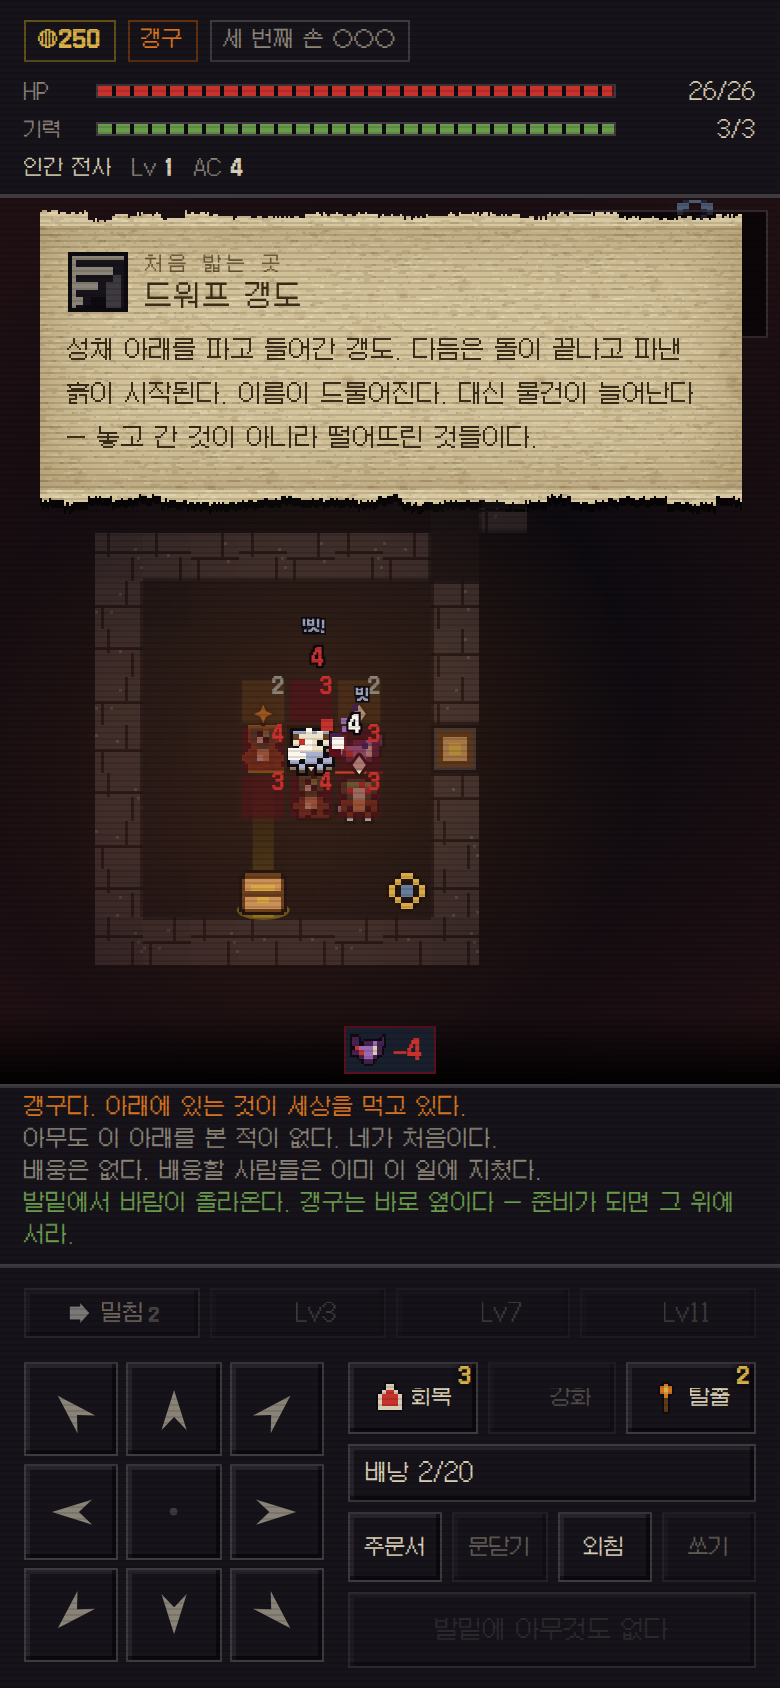
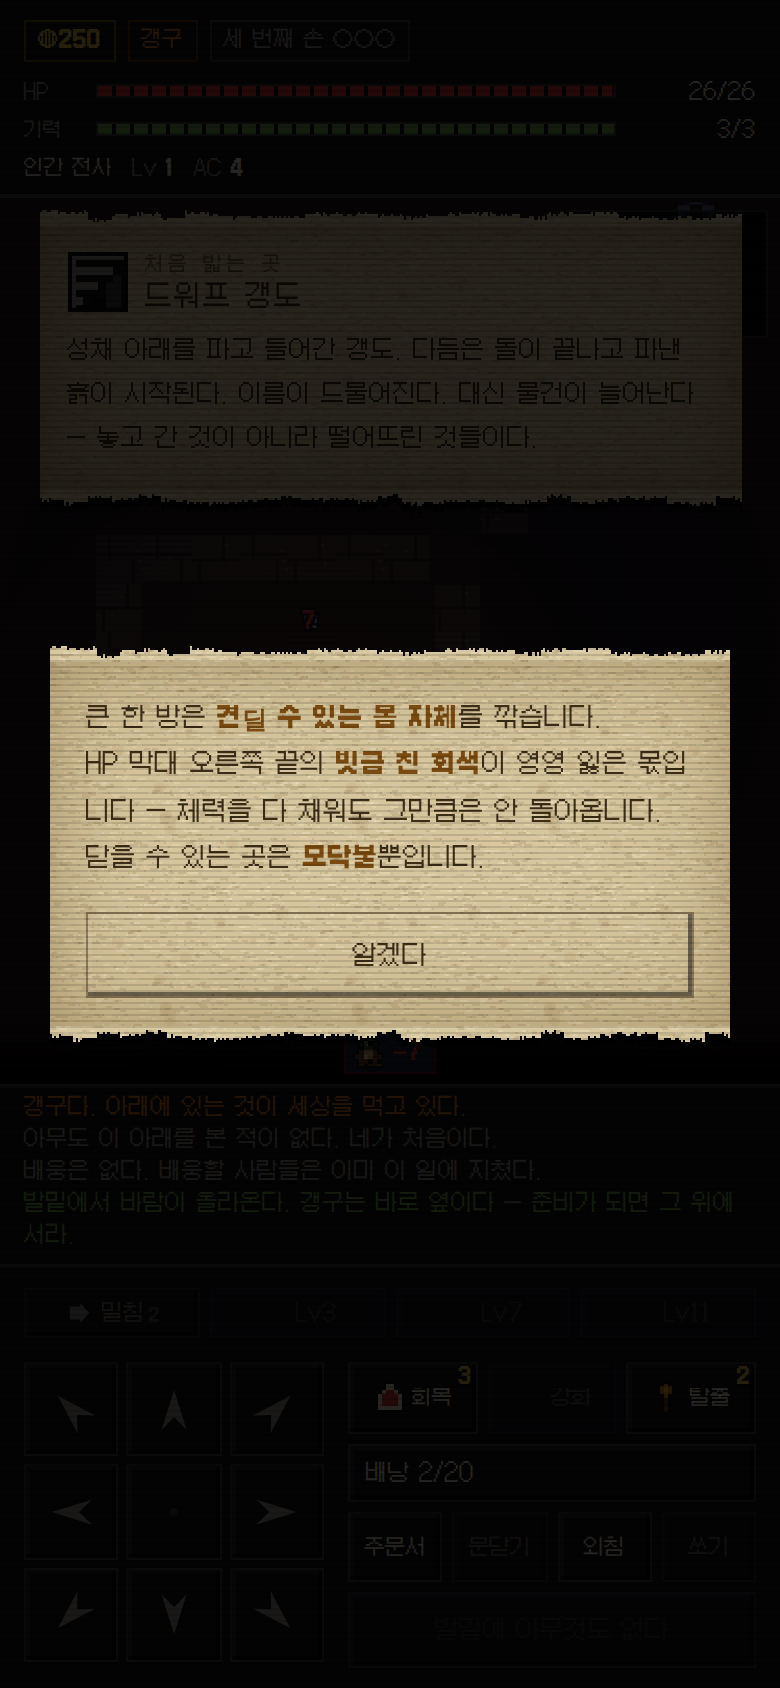
층에 과업을 달았다 — 「15층이 아니라 한 층을 15번」
GM의 진단이고, 측정이 뒷받침한다: 테마 여섯 개는 층의 **모양**만 바꾸고
**할 일**은 안 바꾼다. 판당 턴의 71%가 걷기이고 그 걷는 턴의 96%는
아무것도 안 보이는 상태다 — 「계단을 찾는다」 말고 목표가 없다는 것의
직접 측정치다.

봇이 무작정 훑는 것이 아니라는 것도 확인했다. 목적지 목록을 따라
걷는다(몬스터 → 유물 → 상점 → 모닥불 → 모루 → 사건 → 계단). 그러니
걷기 71%는 봇 버릇이 아니라 **정말로 내용 사이가 먼 것**이다.

과업 둘을 넣었다. 새 아트도 새 조작도 없이 있는 타일·소품·몬스터를
다시 배치할 뿐이다.

  · **열쇠를 문 것** (4층부터) — 계단이 잠기고, 이 층에서 **가장 센
    것**이 열쇠를 물고 있다. 「어딘가에 있다」가 아니라 「저것을 잡아야
    한다」가 되고, 그 판단이 곧 과업의 내용이다.
  · **무너지는 층** (3층부터) — 계단을 처음부터 지도에 찍어 주고 시계를
    반으로 줄인다. 잠그는 것이 아니라 **재촉하는** 과업이다. 「어디로
    갈지」가 사라지므로 남는 결정은 「무엇을 버리고 갈지」다.

층마다는 아니다(45%). 매 층이 과업이면 그건 과업이 아니라 절차다.

    걷기  76.8% → 71%      때리기  9% → 12%

솔직히: 판당 턴은 1191 → 1498로 **늘었다.** 열쇠 쪽이 찾는 일이라
당연하다. 비율은 나아졌지만 절대 걷기는 안 줄었다 — 그건 과업이 아니라
지도 크기와 물건 밀도의 문제이고, GM도 그렇게 말했다(층 예산을 층의
실제 크기에서 뽑아라). 다음 판의 일이다.

**안전판을 두 겹으로 뒀다.** 잠긴 계단은 판을 가둘 수 있고 방금 라이브락
12%를 걷어낸 참이다.
  · TASK_PATIENCE턴이 지나면 과업과 무관하게 열린다. 260으로 뒀다가
    160으로 내렸다 — 층 하나가 보통 175~300턴이니 260은 사실상 「그 층
    내내 잠겨 있다」였다. 여유가 없는 안전판은 안전판이 아니다.
  · 잠긴 계단을 누르면 **턴을 태운다.** 안 태우면 인내심 시계가 영영
    안 돌고, 계단에 서서 버튼만 누르는 판이 갇힌다 — 실제로 40판에 한
    판이 그렇게 막혔고 정직 벤치가 잡았다.
  · 열쇠를 물릴 것이 없으면 과업을 무른다. 열쇠 없는 잠긴 계단은
    과업이 아니라 벽이다.

그리고 과업이 막힘을 늘리는지 직접 시험했다 — 과업 있음 1/120, 과업
없음 1/120. 무관하다.

같이: turns.mjs의 분모 버그를 고쳤다(2회차 지적). walkSeen은 걷기의
부분집합인데 합을 지우기 전에 내서 분모에 한 번 더 들어갔고, 인쇄되는
걷기 비율이 참값보다 4%p 낮았다(행 합이 94%인 것이 증거).

벤치 13종 확인 통과.

Claude-Session: https://claude.ai/code/session_011ig7tdGixykzhK7XR5jr6a

diff --git a/src/game.js b/src/game.js
@@ -14,6 +14,7 @@ import {
   ENCHANT_CURSE, ENCHANT_CURSE_STEP, ENCHANT_TWIN,
   BOONS, boonById, transChance,
   FUSIONS, fusionOf, FUSE_ODDS, FUSE_COST, FUSE_PULL,
+  TASKS, TASK_PATIENCE, TASK_ODDS,
   ALTAR_OFFERS, rarityOf, isCursed, RARITY, TEMPLE_SHARE, JACKPOT,
   POTION_LOOKS, SCROLL_LOOKS, UNKNOWABLE,
   RELICS, RELIC_SLOTS, relicSlots, relicById, BRANCHES,
@@ -2159,6 +2160,17 @@ export function enterDepth(depth, fromBelow = false, branch = null) {
   G.hazards = []; G.snares = []; G.sanctum = null;
   G.campUses = 1 + (hasRelic('ember') ? 1 : 0);
   G.tideUsed = false;
+  /* ── 이 층의 과업 ────────────────────────────────────────
+     계단을 찾는 것 말고 할 일을 하나 준다. 자세한 이유는 data.js의
+     TASKS 주석에. 여기서는 뽑기만 하고, 실제로 잠그는 것은 stairHere와
+     descend가 한 곳에서 본다 — 두 곳에서 보면 언젠가 갈린다. */
+  G.task = null; G.taskDone = false;
+  {
+    const pool = TASKS.filter(t => depth >= t.from);
+    if (pool.length && depth < MAX_DEPTH && Math.random() < TASK_ODDS) {
+      G.task = pickWeighted(pool);
+    }
+  }
 
   const L = G.level;
   const p = G.player;
@@ -2191,6 +2203,30 @@ export function enterDepth(depth, fromBelow = false, branch = null) {
   } else if (depth > 0 && G.campPromise > 0) G.campPromise--;
 
   if (depth > 0) populate(depth);
+  /* 열쇠를 물린다. populate 뒤라야 물릴 것이 있다.
+     가장 깊은 곳에 있는 것이 아니라 **가장 센 것**에게 준다 — 그러면
+     「어딘가에 있다」가 「저것을 잡아야 한다」가 되고, 그 판단이 곧
+     이 과업의 내용이다. 아무도 없으면 과업을 무른다: 열쇠 없는 잠긴
+     계단은 과업이 아니라 벽이다. */
+  /* 재촉하는 과업. 계단을 지도에 찍어 주고 시계를 반으로 줄인다 —
+     「어디로 갈지」가 사라지므로 남는 결정은 「무엇을 버리고 갈지」다.
+     잠그지 않으므로 stairsLocked는 이쪽을 안 본다. */
+  if (G.task?.rush) {
+    G.taskDone = true;
+    for (let i = 0; i < L.tiles.length; i++) if (L.tiles[i] === DOWN) L.seen[i] = 1;
+    G.branch = { ...G.branch, clock: (G.branch.clock ?? 1) * 0.5 };
+    say(G.task.intro, 'warn');
+  }
+  if (G.task?.id === 'key') {
+    const pool = G.monsters.filter(m => !m.disguise);
+    if (!pool.length) G.task = null;
+    else {
+      const holder = pool.reduce((a, m) => (m.xp || 0) > (a.xp || 0) ? m : a, pool[0]);
+      holder.hasKey = true;
+      holder.named = holder.named || false;
+      say(G.task.intro, 'warn');
+    }
+  }
   if (depth > 0 && L.event) L.eventId = rollEvent();
   if (mods?.mapped && depth > 0) L.seen.fill(1);
   /* 길잡이의 기억: the shape of the floor, from floor 11 down.
@@ -3020,6 +3056,19 @@ const OFFER_SCREEN = { [CAMP]:'camp', [ALTAR]:'altar', [EVENT]:'event', [ANVIL]:
    차지하고 늘 띄우고 있었는데, 재 보니 각각 0.1%의 턴에만 살아 있고
    둘이 동시에 사는 일은 없다 — 한 칸에 두 계단은 없으므로 당연하다.
    판정을 규칙 쪽에 두어야 화면이 타일 상수를 알 필요가 없다. */
+/* 계단이 잠겨 있는가. **한 곳에서만** 판정한다 — stairHere와 descend가
+   각자 보면 언젠가 갈리고, 그러면 버튼은 뜨는데 안 눌리는 화면이 된다.
+
+   그리고 인내심. 과업이 끝나지 않아도 TASK_PATIENCE턴이 지나면 열린다.
+   잠긴 계단은 판을 가둘 수 있고, 방금 라이브락 12%를 걷어낸 참이다 —
+   「이 층은 나를 붙잡아 두려 했지만 실패했다」가 「이 판은 여기서
+   끝났다」보다 언제나 낫다. */
+export function stairsLocked() {
+  if (!G.task || G.taskDone) return null;
+  if ((G.floorTurn || 0) >= TASK_PATIENCE) return null;
+  return G.task;
+}
+
 export function stairHere() {
   const p = G.player, L = G.level;
   if (!p || !L || !G.running) return null;
@@ -4228,6 +4277,11 @@ export function hurtMonster(m, dmg, source, opt = {}) {
       }
       say(`${rec.sent}번째가 다시 누웠다. 남긴 것을 전부 거뒀다.`, 'level');
     }
+    if (m.hasKey && G.task && !G.taskDone) {
+      G.taskDone = true;
+      say(G.task.done, 'level');
+      fx({ t:'drop', x:m.x, y:m.y, rar:3 });
+    }
     if (m.named) {
       const id = unownedRelic();
       if (id) {
@@ -4458,6 +4512,17 @@ function gainXp(n) {
 export function descend() {
   const L = G.level, p = G.player;
   if (L.tiles[idx(p.x, p.y)] !== DOWN) { say('여기엔 내려가는 계단이 없다.'); return; }
+  const shut = stairsLocked();
+  if (shut) {
+    /* 문을 흔드는 것도 행동이다 — 턴을 태운다. 안 태우면 인내심
+       시계가 영영 안 돌고, 계단에 서서 버튼만 누르는 판이 갇힌다.
+       실제로 40판에 한 판이 그렇게 막혔다(정직 벤치가 잡았다).
+       잠긴 계단은 「기다리면 열린다」여야지 「여기서 끝」이면 안 된다. */
+    const left = Math.max(0, TASK_PATIENCE - (G.floorTurn || 0));
+    say(`${shut.hint} (${left}턴쯤 버티면 문이 삭는다)`, 'warn');
+    endTurn();
+    return;
+  }
   if (G.depth >= MAX_DEPTH) { say('이 아래로는 아무것도 없다.'); return; }
   if (G.depth + 1 >= MAX_DEPTH || G.depth === 0) { takeStairs(BRANCHES[0]); return; }
 

diff --git a/src/data.js b/src/data.js
@@ -2417,6 +2417,45 @@ export const FUSE_COST = { dust: 3, gold: 180 };
    `mon`/`item`/`elite` scale what populate() rolls; `flags` are
    read by the rules where they matter. Every branch that gives
    must also take, or it is not a choice. */
+/* ── 층에 과업 ────────────────────────────────────────────
+   GM의 진단: 「15층이 아니라 한 층을 15번이다.」 테마 여섯 개는 층의
+   **모양**만 바꾸고 **할 일**은 안 바꾼다. 판당 1191턴 중 76%가 걷기이고
+   그 걷는 턴의 95%는 아무것도 안 보이는 상태다 — 「계단을 찾는다」 말고는
+   목표가 없다는 것의 직접 측정치다.
+
+   그래서 층마다 할 일을 하나 준다. 계단은 그 일이 끝나야 열린다.
+   새 아트도 새 조작도 없다 — 있는 타일·소품·몬스터를 다시 배치할 뿐이다.
+
+   `from`은 풀리는 깊이. 1~2층은 과업 없이 그냥 내려간다 — 처음 하는
+   사람에게 「계단이 안 열린다」를 먼저 가르치면 그건 규칙이 아니라 벽이다.
+
+   그리고 **안전판**이 반드시 있어야 한다. 잠긴 계단은 봇을 가둘 수 있고,
+   방금 라이브락 12%를 걷어낸 참이다. `PATIENCE`턴이 지나면 과업과 무관하게
+   열린다 — 「이 층은 나를 붙잡아 두려 했지만 실패했다」가 「이 판은 여기서
+   끝났다」보다 언제나 낫다. */
+/* 260이었다. 층 하나가 보통 175~300턴이니 사실상 「그 층 내내 잠겨
+   있다」였고, 정직 벤치의 막힘이 60판에 0~1건으로 문턱(2%)과 한 판
+   차이까지 붙었다. 여유가 없는 안전판은 안전판이 아니다.
+   160이면 보통 층의 절반쯤이라 「서둘러야 한다」는 남고 「갇혔다」는
+   사라진다. */
+export const TASK_PATIENCE = 160;      // 이 턴이 지나면 계단은 그냥 열린다
+/* 층마다는 아니다. 매 층이 과업이면 그건 과업이 아니라 절차다 —
+   「이번 층은 뭔가 다르다」가 되려면 다른 층이 있어야 한다. */
+export const TASK_ODDS = 0.45;
+export const TASKS = [
+  { id:'key',  n:'열쇠를 문 것', from:4, w:3,
+    intro:'계단이 잠겨 있다. 이 층의 무언가가 열쇠를 삼켰다.',
+    done:'열쇠가 나왔다. 계단이 열린다.',
+    hint:'열쇠를 문 것을 찾아라 — 이 층 어딘가에 있다.' },
+  /* 열쇠 쪽은 재 보니 **걷기를 더 시켰다**(판당 1191턴 → 1529턴).
+     찾는 일이니 당연하다. 걷기 자체를 줄이는 과업이 따로 있어야
+     한다 — 이쪽은 계단을 처음부터 보여 주고 시계를 반으로 줄인다.
+     잠그는 것이 아니라 **재촉하는** 과업이라 `open`이 필요 없다. */
+  { id:'fall', n:'무너지는 층', from:3, w:3, rush:true,
+    intro:'천장에서 흙이 떨어진다. 이 층은 오래 못 간다 — 계단은 저기다.',
+    done:'', hint:'' },
+];
+
 export const BRANCHES = [
   { id:'plain',  n:'평범한 계단', t:'특별할 것 없는 층.',
     mon:1,    item:1,   elite:1 },
